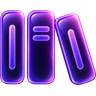
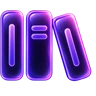
feat(charte): les icones au repos passent elles aussi en verre
Les versions au repos fournies remplacent le trait fin : verre sombre au
repos, verre violet lumineux quand l'element est selectionne, survole,
presse ou ouvert. Barre d'onglets (Accueil, Mes soirees, Biblio, Profil) et
en-tete (recherche, amis & Duo, notifications).

Chaque paire repos/actif est recadree avec le meme cadre (boite englobant
les deux dessins) : le fondu de l'une a l'autre ne fait pas bouger l'icone.
Les versions actives sont regenerees avec ce cadre commun. 18 images de
96 px, 4 a 6 Ko chacune.

IconeCharte ne prend plus d'icone lucide, seulement les deux images. Un
`React.ComponentType<any>` disparait au passage : cliquet lint 1021 -> 1020.
Seule l'icone des filtres rapides reste au trait fin, faute d'illustration.

diff --git a/src/components/pick/BottomTabBar.tsx b/src/components/pick/BottomTabBar.tsx
@@ -1,24 +1,28 @@
-import { Home, Library, User, CalendarDays } from "lucide-react";
 import { useNavigate, useLocation } from "react-router-dom";
 import { motion } from "framer-motion";
 import creerSoiree from "@/assets/creer-soiree.webp";
 import creerSoireeActif from "@/assets/creer-soiree-actif.webp";
+import IconeCharte from "./IconeCharte";
+import accueilRepos from "@/assets/icones/accueil-repos.webp";
 import accueilActif from "@/assets/icones/accueil-actif.webp";
+import soireesRepos from "@/assets/icones/soirees-repos.webp";
 import soireesActif from "@/assets/icones/soirees-actif.webp";
+import biblioRepos from "@/assets/icones/biblio-repos.webp";
 import biblioActif from "@/assets/icones/biblio-actif.webp";
+import profilRepos from "@/assets/icones/profil-repos.webp";
 import profilActif from "@/assets/icones/profil-actif.webp";
 
 export type TabId = "home" | "soirees" | "cinema" | "profile";
 
-// `icon` : le trait fin, au repos. `activeIcon` : l'illustration en verre violet de la
-// charte Pick, quand l'onglet est sélectionné ou survolé.
-type TabDef = { id: TabId; label: string; icon: React.ComponentType<any>; activeIcon: string; path: string };
+// Illustrations de la charte Pick : `icon` au repos, `activeIcon` quand l'onglet est
+// sélectionné ou survolé.
+type TabDef = { id: TabId; label: string; icon: string; activeIcon: string; path: string };
 
 const tabs: TabDef[] = [
-  { id: "home",    label: "Accueil",       icon: Home,         activeIcon: accueilActif, path: "/app" },
-  { id: "soirees", label: "Mes soirées",   icon: CalendarDays, activeIcon: soireesActif, path: "/app/soirees" },
-  { id: "cinema",  label: "Biblio",        icon: Library,      activeIcon: biblioActif,  path: "/app/my-cinema" },
-  { id: "profile", label: "Profil",        icon: User,         activeIcon: profilActif,  path: "/app/profile" },
+  { id: "home",    label: "Accueil",       icon: accueilRepos, activeIcon: accueilActif, path: "/app" },
+  { id: "soirees", label: "Mes soirées",   icon: soireesRepos, activeIcon: soireesActif, path: "/app/soirees" },
+  { id: "cinema",  label: "Biblio",        icon: biblioRepos,  activeIcon: biblioActif,  path: "/app/my-cinema" },
+  { id: "profile", label: "Profil",        icon: profilRepos,  activeIcon: profilActif,  path: "/app/profile" },
 ];
 
 const BottomTabBar = () => {
@@ -97,7 +101,6 @@ function TabButton({ tab, isActive, navigate, location }: {
   navigate: ReturnType<typeof useNavigate>;
   location: ReturnType<typeof useLocation>;
 }) {
-  const Icon = tab.icon;
   return (
     <button
       key={tab.id}
@@ -150,19 +153,7 @@ function TabButton({ tab, isActive, navigate, location }: {
         transition={{ type: "spring", stiffness: 380, damping: 24 }}
         className="relative flex items-center justify-center h-[26px]"
       >
-        {/* Trait fin au repos ; illustration de la charte quand l'onglet est actif
-            ou survolé à la souris. Les deux sont superposés et se croisent en fondu. */}
-        <Icon
-          className={`w-[20px] h-[20px] text-foreground/50 transition-opacity duration-200 ${isActive ? "opacity-0" : "opacity-100 [@media(hover:hover)]:group-hover:opacity-0"}`}
-          strokeWidth={1.7}
-        />
-        <img
-          src={tab.activeIcon}
-          alt=""
-          aria-hidden="true"
-          draggable={false}
-          className={`absolute w-[26px] h-[26px] max-w-none pointer-events-none select-none transition-opacity duration-200 ${isActive ? "opacity-100" : "opacity-0 [@media(hover:hover)]:group-hover:opacity-100"}`}
-        />
+        <IconeCharte repos={tab.icon} actif={tab.activeIcon} className="w-[26px] h-[26px]" active={isActive} />
       </motion.div>
       <span className={`mt-1 text-[clamp(8.5px,2.6vw,10px)] font-sans tracking-tight transition-colors duration-200 ${isActive ? "text-primary font-semibold" : "text-foreground/40 font-medium [@media(hover:hover)]:group-hover:text-primary/80"}`}>
         {tab.label}

diff --git a/src/components/pick/IconeCharte.tsx b/src/components/pick/IconeCharte.tsx
@@ -1,8 +1,8 @@
-import type { LucideIcon } from "lucide-react";
-
 /**
- * Icône à deux états de la charte Pick : le trait fin au repos, l'illustration
- * en verre violet quand l'élément est actif, survolé à la souris ou pressé.
+ * Icône à deux états de la charte Pick : l'illustration en verre sombre au
+ * repos, la même en verre violet lumineux quand l'élément est actif, survolé
+ * à la souris ou pressé. Les deux images partagent le même cadrage : le fondu
+ * de l'une à l'autre ne fait pas bouger le dessin.
  *
  * Le parent doit porter la classe `group`. Le survol est réservé aux souris
  * (`hover:hover`) : sur écran tactile, il resterait collé après l'appui.
@@ -11,27 +11,24 @@ const ALLUME = "[@media(hover:hover)]:group-hover:opacity-100 group-active:opaci
 const ETEINT = "[@media(hover:hover)]:group-hover:opacity-0 group-active:opacity-0 group-focus-visible:opacity-0";
 
 interface IconeCharteProps {
-  icon: LucideIcon;
-  image: string;
-  /** Classes du trait fin (taille, couleur). */
-  iconClassName: string;
-  /** Taille de l'illustration, un peu plus grande que le trait : elle a un halo. */
-  imageClassName: string;
+  /** Illustration au repos. */
+  repos: string;
+  /** Illustration active. */
+  actif: string;
+  /** Taille commune aux deux images. */
+  className: string;
   /** Allumée en permanence (onglet sélectionné, panneau ouvert). */
   active?: boolean;
 }
 
-const IconeCharte = ({ icon: Icon, image, iconClassName, imageClassName, active = false }: IconeCharteProps) => (
-  <span className="relative inline-flex items-center justify-center">
-    <Icon className={`${iconClassName} transition-opacity duration-200 ${active ? "opacity-0" : `opacity-100 ${ETEINT}`}`} />
-    <img
-      src={image}
-      alt=""
-      aria-hidden="true"
-      draggable={false}
-      className={`absolute ${imageClassName} max-w-none pointer-events-none select-none transition-opacity duration-200 ${active ? "opacity-100" : `opacity-0 ${ALLUME}`}`}
-    />
-  </span>
-);
+const IconeCharte = ({ repos, actif, className, active = false }: IconeCharteProps) => {
+  const image = `${className} max-w-none pointer-events-none select-none transition-opacity duration-200`;
+  return (
+    <span className="relative inline-flex items-center justify-center">
+      <img src={repos} alt="" aria-hidden="true" draggable={false} className={`${image} ${active ? "opacity-0" : `opacity-100 ${ETEINT}`}`} />
+      <img src={actif} alt="" aria-hidden="true" draggable={false} className={`absolute ${image} ${active ? "opacity-100" : `opacity-0 ${ALLUME}`}`} />
+    </span>
+  );
+};
 
 export default IconeCharte;

diff --git a/src/components/pick/BrandHeader.tsx b/src/components/pick/BrandHeader.tsx
@@ -1,11 +1,13 @@
 import { motion } from "framer-motion";
-import { ArrowLeft, Users, Search } from "lucide-react";
+import { ArrowLeft } from "lucide-react";
 import { useNavigate } from "react-router-dom";
 import { ReactNode } from "react";
 import pickLogo from "@/assets/pick-logo.webp";
 import NotificationBell from "./NotificationBell";
 import IconeCharte from "./IconeCharte";
+import rechercheRepos from "@/assets/icones/recherche-repos.webp";
 import rechercheActif from "@/assets/icones/recherche-actif.webp";
+import amisRepos from "@/assets/icones/amis-repos.webp";
 import amisActif from "@/assets/icones/amis-actif.webp";
 
 interface BrandHeaderProps {
@@ -53,14 +55,14 @@ const BrandHeader = ({ showBack, onBack, extraActions }: BrandHeaderProps) => {
           className="group relative w-11 h-11 flex items-center justify-center rounded-full transition-transform active:scale-[0.96]"
           aria-label="Rechercher un film"
         >
-          <IconeCharte icon={Search} image={rechercheActif} iconClassName="w-[18px] h-[18px] text-foreground/40" imageClassName="w-[24px] h-[24px]" />
+          <IconeCharte repos={rechercheRepos} actif={rechercheActif} className="w-[24px] h-[24px]" />
         </button>
         <button
           onClick={() => navigate("/app/duo")}
           className="group relative w-11 h-11 flex items-center justify-center rounded-full transition-transform active:scale-[0.96]"
           aria-label="Mes amis & Duo"
         >
-          <IconeCharte icon={Users} image={amisActif} iconClassName="w-[18px] h-[18px] text-foreground/40" imageClassName="w-[26px] h-[26px]" />
+          <IconeCharte repos={amisRepos} actif={amisActif} className="w-[26px] h-[26px]" />
         </button>
         <NotificationBell />
       </div>

diff --git a/src/components/pick/NotificationBell.tsx b/src/components/pick/NotificationBell.tsx
@@ -1,6 +1,6 @@
 import { useState, useEffect, useCallback } from "react";
-import { Bell } from "lucide-react";
 import IconeCharte from "./IconeCharte";
+import notificationsRepos from "@/assets/icones/notifications-repos.webp";
 import notificationsActif from "@/assets/icones/notifications-actif.webp";
 import { motion, AnimatePresence } from "framer-motion";
 import { supabase } from "@/integrations/supabase/client";
@@ -109,7 +109,7 @@ const NotificationBell = () => {
         className="group relative p-2 rounded-full"
         aria-label="Notifications"
       >
-        <IconeCharte icon={Bell} image={notificationsActif} iconClassName="w-5 h-5 text-foreground/60" imageClassName="w-[26px] h-[26px]" active={open} />
+        <IconeCharte repos={notificationsRepos} actif={notificationsActif} className="w-[26px] h-[26px]" active={open} />
         {unreadCount > 0 && (
           <motion.span
             initial={{ scale: 0 }}
